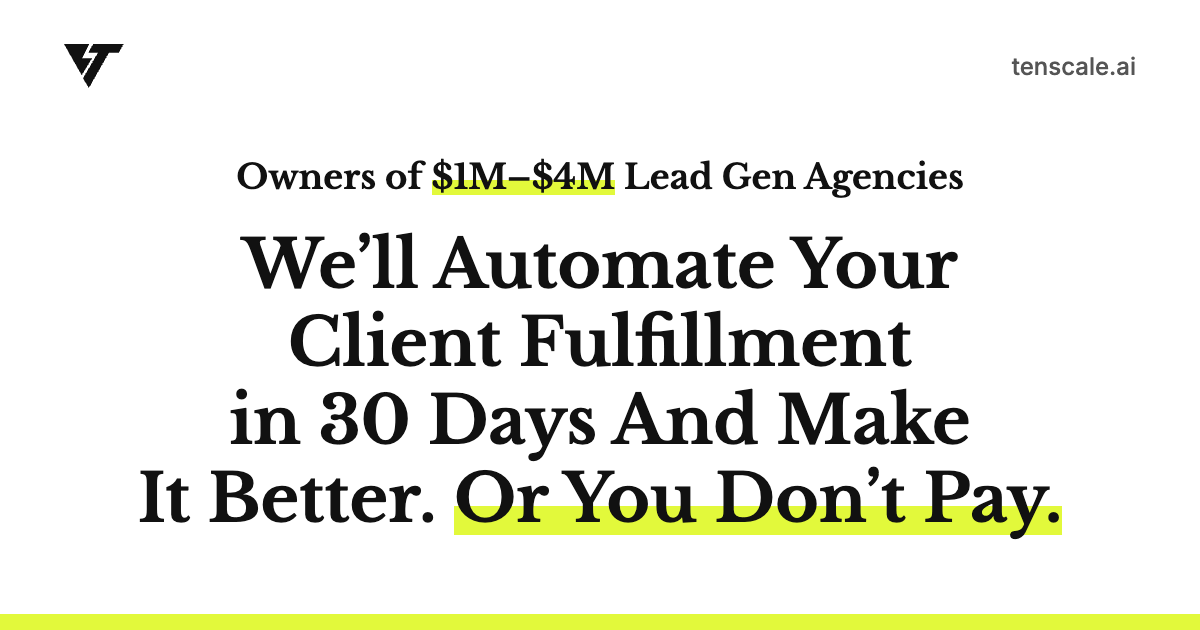
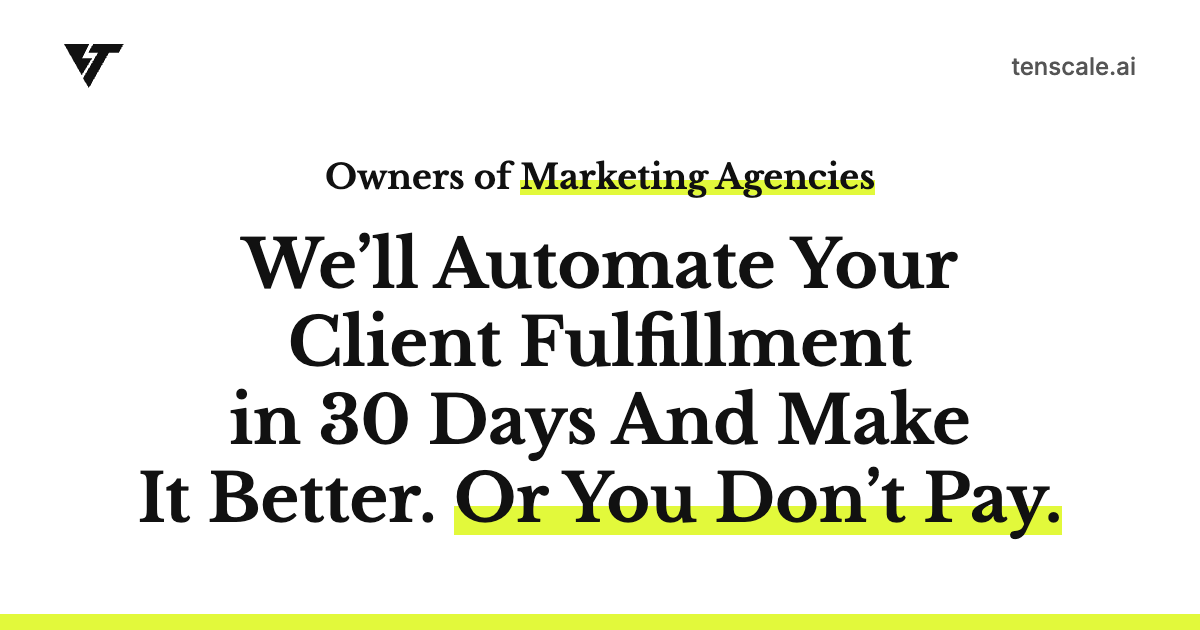
The callout names marketing agencies, and the calendar is ready sooner on a desktop
The eyebrow on /landing and /landing-sp now reads "Owners of Marketing
Agencies", with the marker on the two words that answer "is this for me?".
The revenue band and the lead gen niche are gone, at Ben's call. The -blue
and -bl variants keep "Owners of $1M-$4M Lead Gen Agencies" through a new
`callout` option on HeroFold. The landing's link description and share card
say the same as the main pages; the card's URL gets ?v=2 so scrapers fetch it
again.

On a desktop the booking widget boots as soon as the page has loaded instead
of at the first scroll or touch or six seconds in. iClosed needs 2.5 to 4
seconds from boot to a usable form, so a click in the first seconds met a
blank panel. Measured with the real widget, the form is now up about 2.5s
into the visit, and the desktop video starts about 50ms later. Phones keep
the wait, where the widget competes with the video on a slower connection.

Changed region(s): [[0.185, 0.2413, 0.8017, 0.3317]]

diff --git a/src/components/ec/HeroFold.tsx b/src/components/ec/HeroFold.tsx
@@ -27,9 +27,9 @@ import { VSL_CHAPTERS, VSL_ORIGIN, VSL_SOURCE_MOBILE, Vsl } from "./Vsl";
 /**
  * The Hormozi shape, split across three type sizes rather than one headline.
  *
- * The agreed line is "Owners of $1M-$4M Marketing Lead Gen Agencies: We'll
- * Automate Your Client Fulfillment in 30 Days - And Make It Better. Or You
- * Don't Pay." Set whole at display size it runs five lines, so the audience
+ * The agreed line is "Owners of Marketing Agencies: We'll Automate Your
+ * Client Fulfillment in 30 Days - And Make It Better. Or You Don't Pay." Set
+ * whole at display size it runs five lines, so the audience
  * callout becomes an eyebrow and the risk reversal becomes its own accent
  * line. Not a word changes.
  */
@@ -45,19 +45,30 @@ import { VSL_CHAPTERS, VSL_ORIGIN, VSL_SOURCE_MOBILE, Vsl } from "./Vsl";
  * size rather than as a tracked micro-label, because a small-caps label reads
  * as a category and a sentence reads as something addressed to you.
  *
- * The accent lands on the revenue band and nowhere else. That range is the
- * single fact that answers the question, so it is what the eye should catch
- * first, and colouring four characters costs almost no visual mass.
+ * The accent lands on "Marketing Agencies" and nowhere else: those two words
+ * are the answer to the question, so they are what the eye should catch first.
  *
- * "Marketing" is gone. It said nothing "Lead Gen" was not already saying, and
- * on a phone it was the word that pushed this line onto a second row.
+ * Until October 2026 the line was "Owners of $1M-$4M Lead Gen Agencies", with
+ * the accent on the revenue band. Ben dropped the band and the niche and
+ * names the audience broadly instead, on /landing and /landing-sp. The -blue
+ * and -bl variants keep the old line (`callout="lead-gen"`).
  */
-function Eyebrow({ className }: { className: string }) {
+export type Callout = "marketing" | "lead-gen";
+
+function Eyebrow({ className, callout }: { className: string; callout: Callout }) {
+  if (callout === "lead-gen") {
+    return (
+      <p className={className}>
+        Owners of{" "}
+        <span className="ec-mark text-(--ec-accent-text) whitespace-nowrap">$1M&ndash;$4M</span>{" "}
+        Lead Gen Agencies
+      </p>
+    );
+  }
   return (
     <p className={className}>
       Owners of{" "}
-      <span className="ec-mark text-(--ec-accent-text) whitespace-nowrap">$1M&ndash;$4M</span>{" "}
-      Lead Gen Agencies
+      <span className="ec-mark text-(--ec-accent-text) whitespace-nowrap">Marketing Agencies</span>
     </p>
   );
 }
@@ -109,8 +120,16 @@ function SubheadCopy() {
  * so it costs the fold no height; the centred eyebrow leaves that corner empty
  * at every desktop width. The phone fold has no such corner, so its mark lives
  * in the sticky bar instead.
+ *
+ * `callout` picks the eyebrow line (see Eyebrow).
  */
-export function HeroFold({ brandMark = false }: { brandMark?: boolean }) {
+export function HeroFold({
+  brandMark = false,
+  callout = "marketing",
+}: {
+  brandMark?: boolean;
+  callout?: Callout;
+}) {
 
   return (
     <>
@@ -159,7 +178,7 @@ export function HeroFold({ brandMark = false }: { brandMark?: boolean }) {
             <BrandMark className="absolute top-0 left-0 h-[clamp(28px,2.4vw,40px)] w-auto" />
           )}
 
-          <Eyebrow className="font-[family-name:var(--font-pt-serif)] text-[clamp(19px,1.78vw,34px)] leading-[1.35] font-bold text-(--ec-ink)" />
+          <Eyebrow callout={callout} className="font-[family-name:var(--font-pt-serif)] text-[clamp(19px,1.78vw,34px)] leading-[1.35] font-bold text-(--ec-ink)" />
 
           <Headline className="mx-auto mt-[18px] max-w-[min(1560px,92vw)] text-balance font-[family-name:var(--font-libre-baskerville)] text-[clamp(30px,2.95vw,56px)] leading-[1.18] font-bold text-(--ec-ink)" />
 
@@ -205,7 +224,7 @@ export function HeroFold({ brandMark = false }: { brandMark?: boolean }) {
         all cut once the words had been cut as far as they could go.
       */}
       <section className="flex flex-col items-center bg-(--ec-bg) px-[14px] pt-[24px] pb-[12px] text-center min-[801px]:hidden">
-        <Eyebrow className="text-balance font-[family-name:var(--font-pt-serif)] text-[18px] leading-[1.4] font-bold text-(--ec-ink)" />
+        <Eyebrow callout={callout} className="text-balance font-[family-name:var(--font-pt-serif)] text-[18px] leading-[1.4] font-bold text-(--ec-ink)" />
 
         <Headline className="mt-[14px] text-balance font-[family-name:var(--font-pt-serif)] text-[29px] leading-[1.2] font-bold text-(--ec-ink)" />
 

diff --git a/src/components/ec/BookingModal.tsx b/src/components/ec/BookingModal.tsx
@@ -33,8 +33,9 @@ import {
  * ahead of the click (see `lib/booking.ts`), and the iframe itself belongs to
  * iClosed, so it cannot be made faster. It can only be started earlier: the
  * dialog is in the DOM from the first render, hidden but laid out at full size,
- * and the widget boots on the visitor's first scroll or touch, or a few seconds
- * in (see BOOT_AFTER_MS). By the time anyone
+ * and the widget boots once the page has loaded on a desktop, and on a phone at
+ * the visitor's first scroll or touch, or a few seconds in (see BOOT_AFTER_MS).
+ * By the time anyone
  * has watched enough of the video to want a call, the calendar is already
  * rendered and opening costs one repaint.
  *
@@ -52,7 +53,7 @@ import {
 /** The height iClosed's embed is built around. */
 const WIDGET_HEIGHT = 520;
 
-/** When the widget boots if the visitor has not scrolled, touched or typed yet. */
+/** When the widget boots on a phone if the visitor has not scrolled, touched or typed yet. */
 const BOOT_AFTER_MS = 6000;
 
 /**
@@ -124,7 +125,22 @@ export function BookingModal() {
   // comes first; a visitor needs longer than that to reach for the button.
   // Opening the dialog boots it too, in case it is opened before either.
   // The container is already rendered at full size, so iClosed's loader finds it.
+  //
+  // A desktop does not wait. iClosed needs 2.5 to 4 seconds from boot to a
+  // usable form, so a click in the first seconds met a blank panel for that
+  // long. A desktop connection carries the widget and the 1080p video at once,
+  // so there it boots as soon as the page has loaded and is ready a few
+  // seconds into the visit. The wait above is for phones.
   useEffect(() => {
+    if (window.matchMedia("(min-width: 801px)").matches) {
+      if (document.readyState === "complete") {
+        loadBookingWidget();
+        return;
+      }
+      window.addEventListener("load", loadBookingWidget, { once: true });
+      return () => window.removeEventListener("load", loadBookingWidget);
+    }
+
     const events = ["scroll", "pointerdown", "touchstart", "keydown"] as const;
     const boot = () => {
       window.clearTimeout(timer);

diff --git a/src/lib/landing-metadata.ts b/src/lib/landing-metadata.ts
@@ -11,9 +11,9 @@ import type { Metadata } from "next";
  */
 const TITLE = "Tenscale: We Automate Your Client Fulfillment In 30 Days";
 const DESCRIPTION =
-  "For owners of $1M to $4M marketing lead gen agencies. We install a Meta Ads Automation Engine that handles creative production, campaign setup, testing, optimization and scaling.";
+  "For owners of marketing agencies. We install a Meta Ads Automation Engine that handles creative production, campaign setup, testing, optimization and scaling.";
 const CARD = {
-  url: "/og-landing.png",
+  url: "/og-landing.png?v=2",
   width: 1200,
   height: 630,
   alt: "We'll Automate Your Client Fulfillment in 30 Days And Make It Better. Or You Don't Pay.",

diff --git a/src/app/landing-sp-bl/page.tsx b/src/app/landing-sp-bl/page.tsx
@@ -24,7 +24,7 @@ export const metadata: Metadata = {
 export default function Page() {
   return (
     <div className="ec-landing ec-theme-black min-h-screen w-full overflow-x-hidden">
-      <HeroFold brandMark />
+      <HeroFold brandMark callout="lead-gen" />
       {/*
         The same wall the thank-you page carries, in navy rather than blue and
         under its own label. On /landing the page earns the benefits and then hopes

diff --git a/src/app/landing-sp-blue/page.tsx b/src/app/landing-sp-blue/page.tsx
@@ -24,7 +24,7 @@ export const metadata: Metadata = {
 export default function Page() {
   return (
     <div className="ec-landing min-h-screen w-full overflow-x-hidden bg-[#f4f1ea]">
-      <HeroFold />
+      <HeroFold callout="lead-gen" />
       {/*
         The same wall the thank-you page carries, in navy rather than blue and
         under its own label. On /landing the page earns the benefits and then hopes

diff --git a/src/app/landing-bl/page.tsx b/src/app/landing-bl/page.tsx
@@ -23,7 +23,7 @@ export const metadata: Metadata = {
 export default function Page() {
   return (
     <div className="ec-landing ec-theme-black min-h-screen w-full overflow-x-hidden">
-      <HeroFold brandMark />
+      <HeroFold brandMark callout="lead-gen" />
       <Benefits />
       <CtaBlock trackId="after_benefits" />
       <Objections />

diff --git a/src/app/landing-blue/page.tsx b/src/app/landing-blue/page.tsx
@@ -23,7 +23,7 @@ export const metadata: Metadata = {
 export default function Page() {
   return (
     <div className="ec-landing min-h-screen w-full overflow-x-hidden bg-[#f4f1ea]">
-      <HeroFold />
+      <HeroFold callout="lead-gen" />
       <Benefits />
       <CtaBlock trackId="after_benefits" />
       <Objections />
